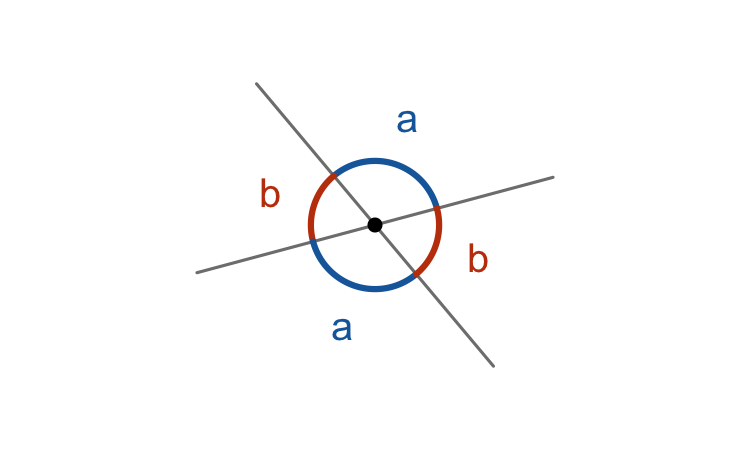
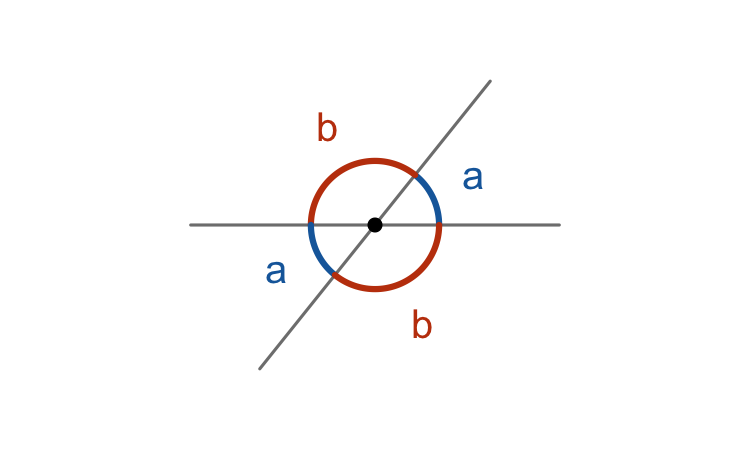
Module 2: make the crossing/Z-rule figures share one visual language, build the parallel-line proof step by step
The crossing-lines figure now uses a horizontal line so it visually
matches the parallel lines in the next figure, and that next figure
reuses the exact same circle-and-arc a/b labeling at both crossings
instead of a separate ad-hoc diagram, making the Z rule slide a literal
extension of the crossing-lines slide.

The "Now the proof" figure is now a 3-step build (consecutive slides):
parallel line through A, then side BA extended past A (orange, the x/B
Z), then side CA extended past A (green, the y/C Z), so both Z shapes
are drawn explicitly instead of asserted.

diff --git a/module-02/slides.html b/module-02/slides.html
@@ -128,9 +128,10 @@ about the two angles tucked inside the Z?**
 --
 
 .pull-left[
-Two **parallel** lines (use both edges of your ruler). One slanted line
-crossing both makes a **Z**, with an angle **a** at the top crossing and an
-angle tucked inside the Z at the bottom crossing.
+Draw the same crossing picture as before at the top. Now add a second,
+perfectly **parallel** line below it, and let the same slanted line cross
+that one too. Label the angles the same way at each crossing: **a**, **b**,
+**a**, **b**.
 ]
 
 --
@@ -139,39 +140,32 @@ angle tucked inside the Z at the bottom crossing.
 &lt;img src="slides_files/figure-html/zrule-1.png" style="display: block; margin: auto;" /&gt;
 ]
 
---
-
-.step[
-Slide angle **a** straight down the slanted line to the bottom crossing. The
-lines are exactly parallel, so it lands with the same tilt and the same
-width: call it **a'** (grey). Only its position moved.
-]
-
 ---
 
 # Finishing the Z rule
 
-**We slid a down to a'. How does a' finish the job?**
+**The Z-shape's two tucked angles are both a's, but in different spots at
+each crossing. How do we know they match?**
 
 --
 
-**a'** and the Z-angle sit directly opposite each other at the bottom
-crossing.
+Slide the top crossing's marked **a** straight down the slanted line to the
+bottom crossing. The lines are exactly parallel, so it lands in the very
+same spot, same tilt, same width.
 
 --
 
-So by the crossing-lines fact from the last slide, **a' = Z-angle**.
-
---
-
-Chain it together: `a = a'` (sliding along a parallel line), and `a' =` the
-Z-angle (opposite angles at a crossing). So `a =` the Z-angle.
+The Z-angle, though, is the *other* **a** at that bottom crossing. By the
+crossing-lines fact, the two **a**'s at any single crossing are already
+equal to each other.
 
 --
 
 .why[
-That is the Z rule, now built from the one opposite-angles fact instead of
-just "trust the ruler."
+Chain it: top **a** = bottom **a** in the matching spot (sliding along a
+parallel line), and that **a** = the Z-angle (the two a's at a crossing are
+equal). So top **a** = the Z-angle, the Z rule, built from the one
+opposite-angles fact used twice.
 ]
 
 ---
@@ -185,18 +179,54 @@ vertex A?**
 
 .pull-left[
 Take any triangle **ABC**. Through the top vertex **A**, draw a line **parallel
-to the bottom side BC**.
-
-Three angles sit along that straight line at A: **x**, the apex angle **A**, and
-**y**. They lie on a straight line, so
-
-`$$x + A + y = 180.$$`
+to the bottom side BC**, stretching out past the triangle on both sides.
 ]
 
 --
 
 .pull-right[
-&lt;img src="slides_files/figure-html/proof-1.png" style="display: block; margin: auto;" /&gt;
+&lt;img src="slides_files/figure-html/proof1-1.png" style="display: block; margin: auto;" /&gt;
+]
+
+---
+
+# Now the proof
+
+**To prove it for every triangle at once, what one line should you add through
+vertex A?**
+
+.pull-left[
+Take any triangle **ABC**. Through the top vertex **A**, draw a line **parallel
+to the bottom side BC**, stretching out past the triangle on both sides.
+
+Now stretch side **BA** past **A**, in orange. It crosses the parallel line and
+makes a Z with side BC, tucking angle **x** next to **A**.
+]
+
+.pull-right[
+&lt;img src="slides_files/figure-html/proof2-1.png" style="display: block; margin: auto;" /&gt;
+]
+
+---
+
+# Now the proof
+
+.pull-left[
+Take any triangle **ABC**. Through the top vertex **A**, draw a line **parallel
+to the bottom side BC**, stretching out past the triangle on both sides.
+
+Stretch side **BA** past **A** (orange), making a Z with BC that tucks angle
+**x** next to A. Now do the same with side **CA** past **A**, in green, making
+a second Z with BC that tucks angle **y** next to A.
+
+Three angles now sit along the straight line at A: **x**, the apex angle
+**A**, and **y**. They lie on a straight line, so
+
+`$$x + A + y = 180.$$`
+]
+
+.pull-right[
+&lt;img src="slides_files/figure-html/proof3-1.png" style="display: block; margin: auto;" /&gt;
 ]
 
 --
@@ -204,8 +234,8 @@ Three angles sit along that straight line at A: **x**, the apex angle **A**, and
 .pull-right[
 Now the **Z rule**, twice:
 
-- **x = B** (alternate angles across AB)
-- **y = C** (alternate angles across AC)
+- **x = B** (alternate angles across the orange Z)
+- **y = C** (alternate angles across the green Z)
 ]
 
 ---
